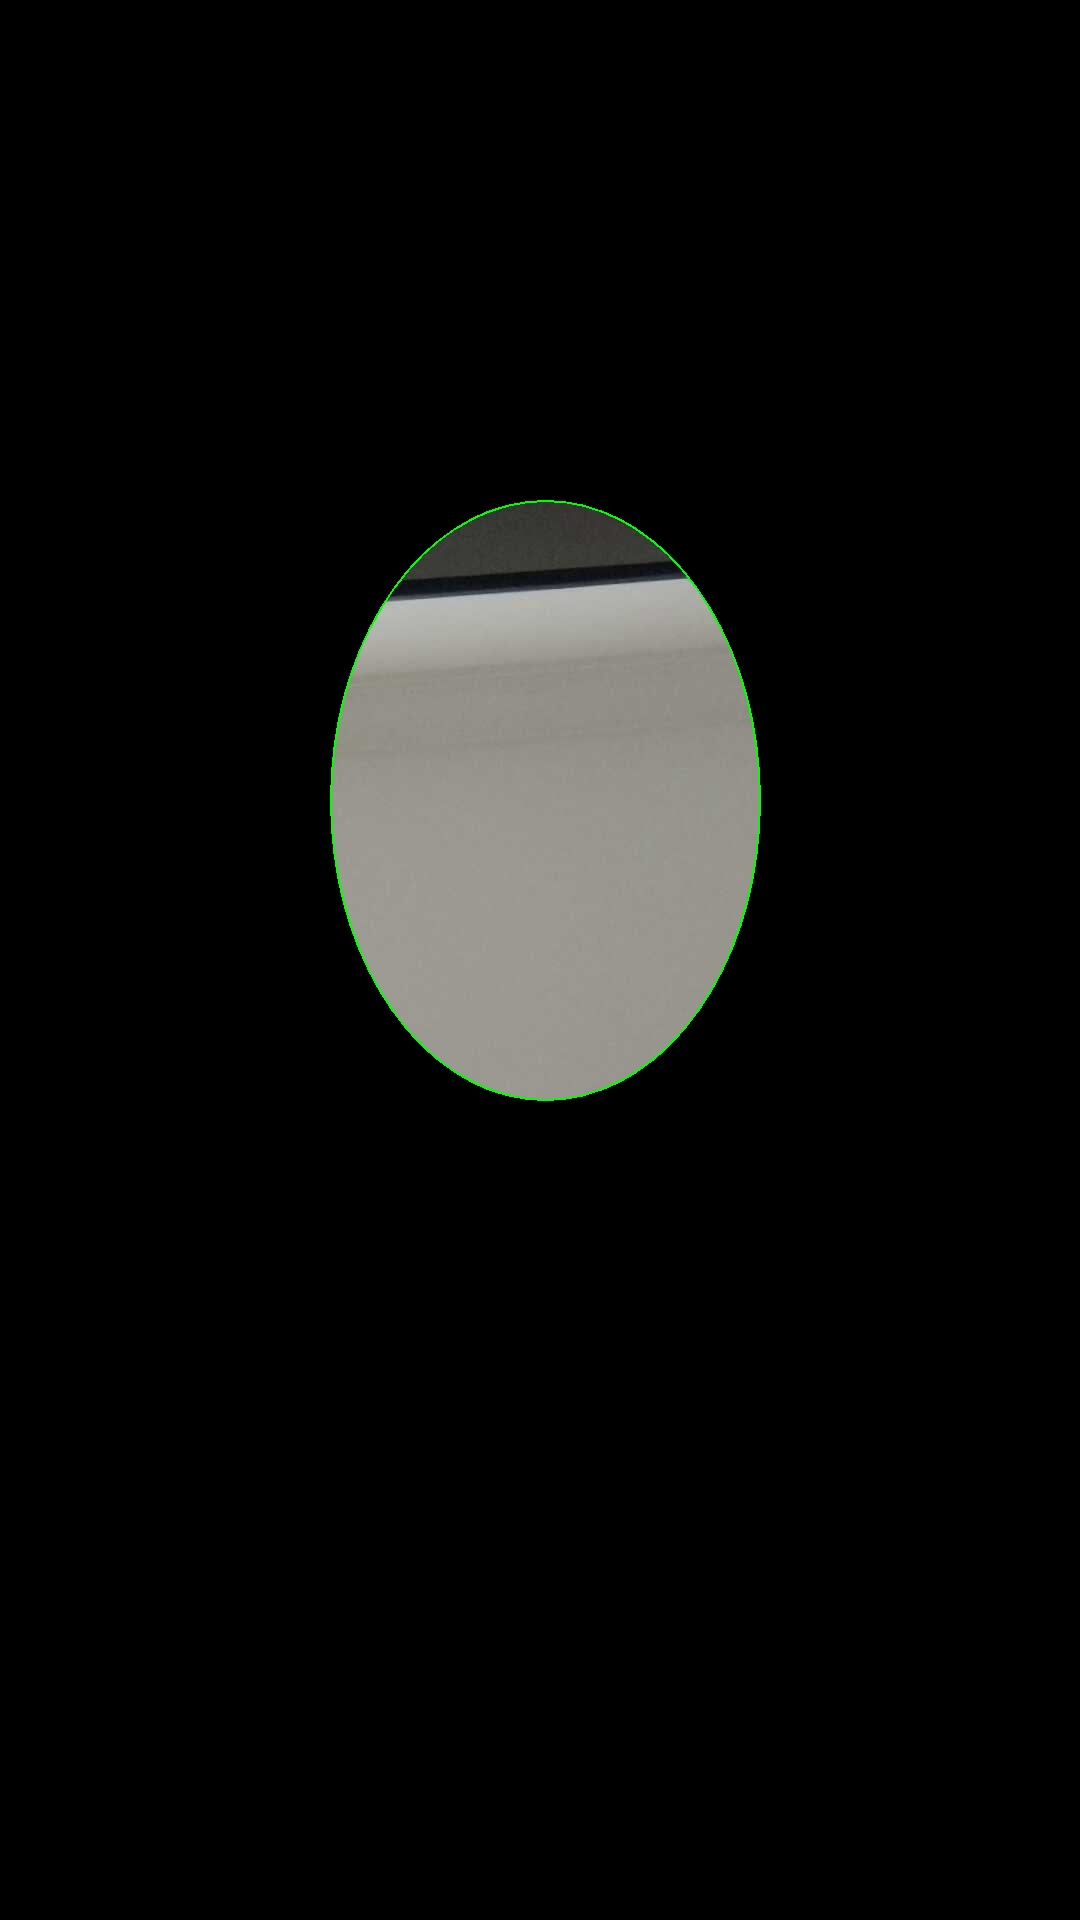
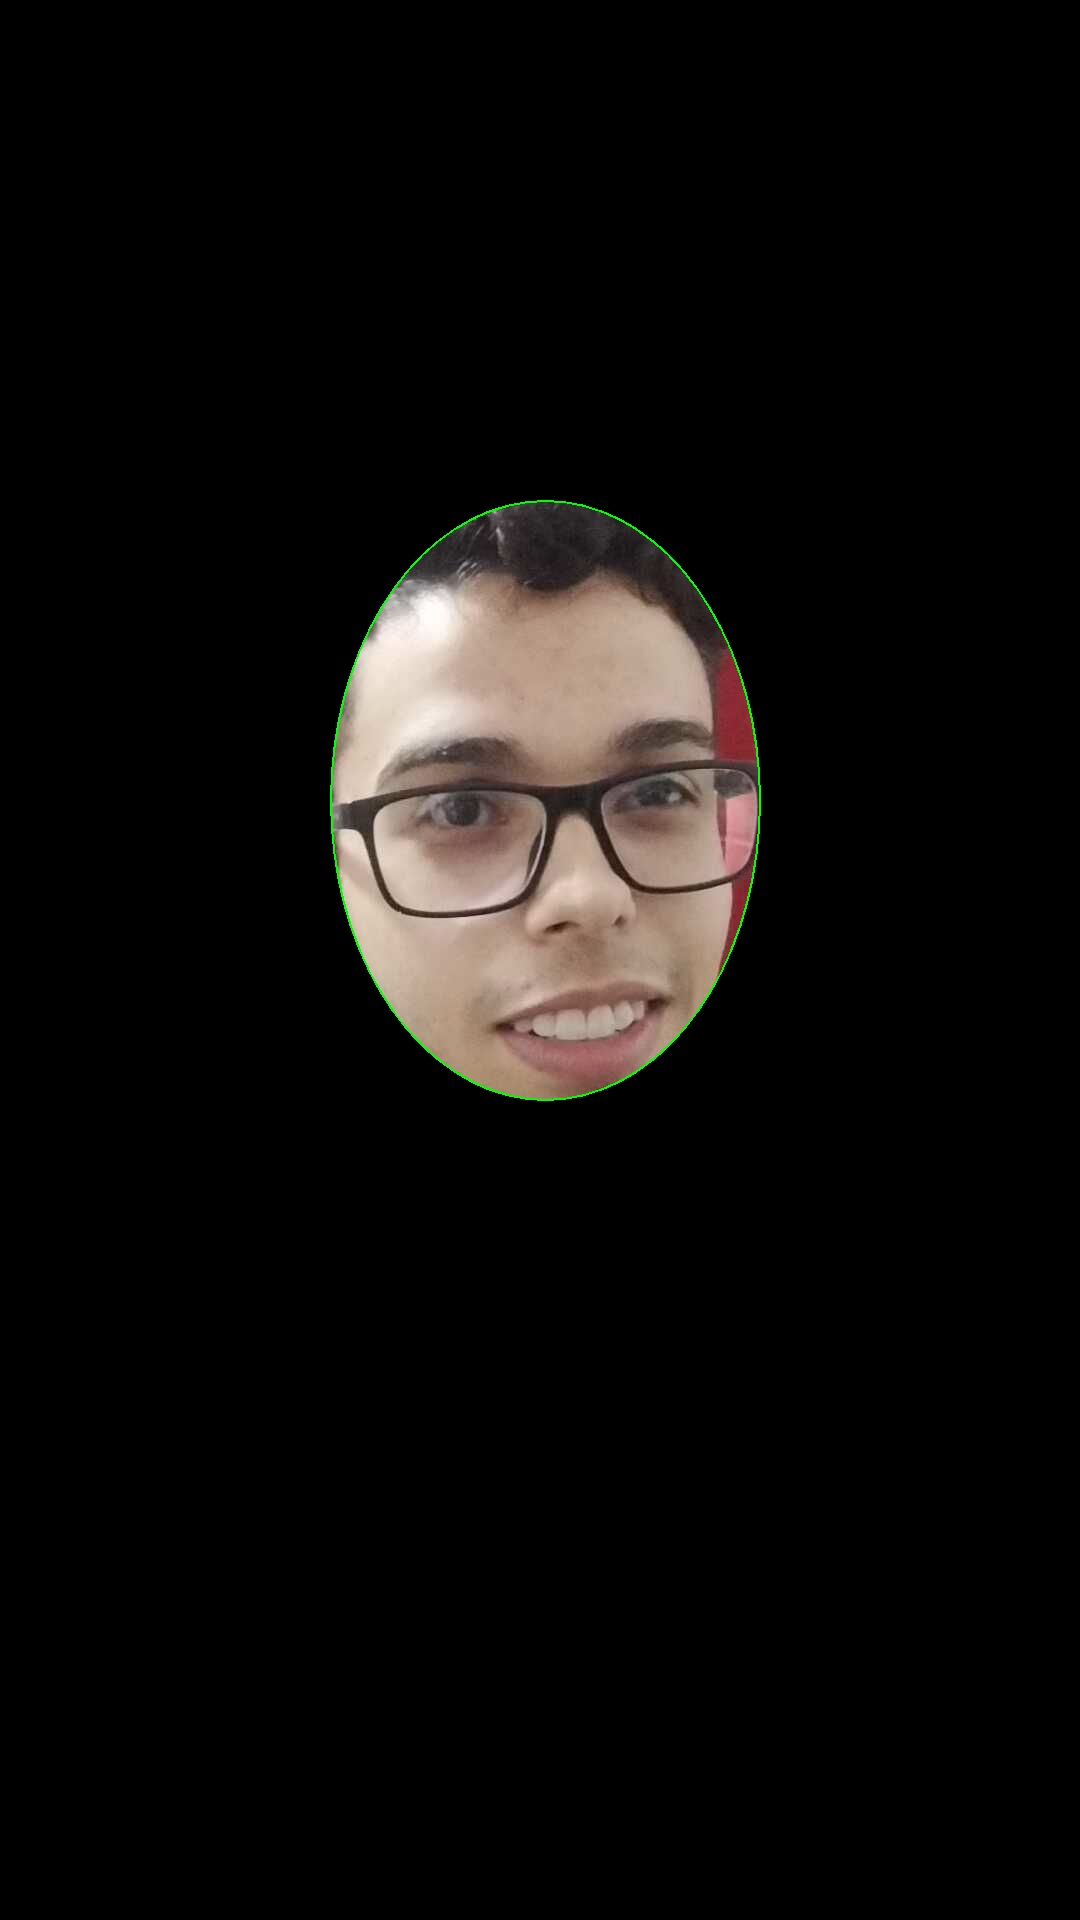
added new frame

Changed region(s): [[0.3056, 0.25, 0.7028, 0.5938]]

diff --git a/main.py b/main.py
@@ -11,6 +11,7 @@ customtkinter.set_default_color_theme("green")  # Themes: blue (default), dark-b
 
 app = customtkinter.CTk()  #creating cutstom tkinter window
 app.geometry("1920x1080+0+0")
+# app.attributes('-fullscreen', True)
 app.title('Login')
 
 
@@ -20,7 +21,7 @@ class Inicial(customtkinter.CTk):
 
         self.title("MelasmIA")
         self.geometry("1920x1080+0+0")
-
+        # self.attributes('-fullscreen', True)
         # set grid layout 1x2
         self.grid_rowconfigure(0, weight=1)
         self.grid_columnconfigure(1, weight=1)
@@ -36,7 +37,7 @@ class Inicial(customtkinter.CTk):
                                                  dark_image=Image.open(os.path.join(image_path, "chat_light.png")), size=(20, 20))
         self.add_user_image = customtkinter.CTkImage(light_image=Image.open(os.path.join(image_path, "add_user_dark.png")),
                                                      dark_image=Image.open(os.path.join(image_path, "add_user_light.png")), size=(20, 20))
-        self.resultImg = customtkinter.CTkImage(Image.open("test_images/prediction.jpg"), size=(300, 300))
+        self.resultImg = customtkinter.CTkImage(Image.open("test_images/melas.jpg"), size=(300, 300))
         self.produto = customtkinter.CTkImage(Image.open(os.path.join(image_path, "produto.png")), size=(150, 150))
 
 
@@ -56,15 +57,15 @@ class Inicial(customtkinter.CTk):
 
         self.frame_2_button = customtkinter.CTkButton(self.navigation_frame, corner_radius=0, height=40, border_spacing=10, text="My Results",
                                                       fg_color="transparent", text_color=("gray10", "gray90"), hover_color=("gray70", "gray30"),
-                                                      image=self.chat_image, anchor="w", command=self.frame_2_button_event)
+                                                      image=self.chat_image, anchor="w", command=lambda: self.frame_2_button_event("frame_2"))
         self.frame_2_button.grid(row=3, column=0, sticky="ew")
 
         self.frame_3_button = customtkinter.CTkButton(self.navigation_frame, corner_radius=0, height=40, border_spacing=10, text="New Detection",
                                                       fg_color="transparent", text_color=("gray10", "gray90"), hover_color=("gray70", "gray30"),
-                                                      image=self.add_user_image, anchor="w", command=self.frame_3_button_event)
+                                                      image=self.add_user_image, anchor="w", command= self.frame_3_button_event)
         self.frame_3_button.grid(row=2, column=0, sticky="ew")
 
-        self.appearance_mode_menu = customtkinter.CTkOptionMenu(self.navigation_frame, values=["Light", "Dark", "System"],
+        self.appearance_mode_menu = customtkinter.CTkOptionMenu(self.navigation_frame, values=["Dark", "Light", "System"],
                                                                 command=self.change_appearance_mode_event)
         self.appearance_mode_menu.grid(row=6, column=0, padx=20, pady=20, sticky="s")
 
@@ -173,7 +174,8 @@ class Inicial(customtkinter.CTk):
         
         self.third_frame_1 = customtkinter.CTkButton(self.third_frame, text="Abrir Camera", width=200, height=70, font = my_font_text, command=lambda: self.select_frame_by_name('frame_4'))
         self.third_frame_1.place(x=900, y=120)
-        # self.toplevel_window = None
+        
+
 
         # create fourth frame
         self.fourth_frame = customtkinter.CTkFrame(self, corner_radius=0, fg_color="transparent")
@@ -185,6 +187,73 @@ class Inicial(customtkinter.CTk):
         self.label_img.grid(row=2, column=0, padx=20, pady=10)
         self.button_1 = customtkinter.CTkButton(self.fourth_frame, text="Capturar imagem", width=280, command=self.capturarImagem)
         self.button_1.grid(row=3, column=0, padx=20, pady=10)
+
+
+        # create fifth frame
+        self.fifth_frame = customtkinter.CTkFrame(self, corner_radius=0, fg_color="transparent")
+        self.fifth_frame.grid_columnconfigure(0, weight=1)
+        self.fifth_label = customtkinter.CTkLabel(self.fifth_frame, text="Meu Resultados", font=("Arial",32))
+        self.fifth_label.grid(row=0, column=0, padx=20, pady=10)
+        self.fifth_large_image_label = customtkinter.CTkLabel(self.fifth_frame,text="", image=self.resultImg)
+        self.fifth_large_image_label.grid(row=1, column=0, padx=20, pady=10)
+        self.fifth_label_Re = customtkinter.CTkLabel(self.fifth_frame, text="Recomendações", font=("Arial",32))
+        self.fifth_label_Re.grid(row=2, column=0, padx=20, pady=10)
+        self.fifth_image_label1 = customtkinter.CTkLabel(self.fifth_frame, text="", image=self.produto)
+        self.fifth_image_label1.place(x=150, y=500)
+        self.fifth_label_description = customtkinter.CTkLabel(self.fifth_frame, text="Recomendações de Tratamento dhududs \n" *5, font=("Arial",15))
+        self.fifth_label_description.place(x=330, y=500)
+        self.fifth_frame_button_1 = customtkinter.CTkButton(self.fifth_frame, text="Clique Aqui!", width=280)
+        self.fifth_frame_button_1.place(x=330, y=600)
+        self.fifth_image_label2 = customtkinter.CTkLabel(self.fifth_frame, text="", image=self.produto)
+        self.fifth_image_label2.place(x=650, y=500)
+        self.fifth_label_description2 = customtkinter.CTkLabel(self.fifth_frame, text="Recomendações de Tratamento dhududs \n" *5, font=("Arial",15))
+        self.fifth_label_description2.place(x=830, y=500)
+        self.fifth_frame_button_2 = customtkinter.CTkButton(self.fifth_frame, text="Clique Aqui!", width=280)
+        self.fifth_frame_button_2.place(x=830, y=600)
+        self.fifth_image_label3= customtkinter.CTkLabel(self.fifth_frame, text="", image=self.produto)
+        self.fifth_image_label3.place(x=1150, y=500)
+        self.fifth_label_description3 = customtkinter.CTkLabel(self.fifth_frame, text="Recomendações de Tratamento dhududs \n" *5, font=("Arial",15))
+        self.fifth_label_description3.place(x=1330, y=500)
+        self.fifth_frame_button_3 = customtkinter.CTkButton(self.fifth_frame, text="Clique Aqui!", width=280)
+        self.fifth_frame_button_3.place(x=1330, y=600)
+
+        self.fifth_image_label4 = customtkinter.CTkLabel(self.fifth_frame, text="", image=self.produto)
+        self.fifth_image_label4.place(x=150, y=750)
+        self.fifth_label_description4 = customtkinter.CTkLabel(self.fifth_frame, text="Recomendações de Tratamento dhududs \n" *5, font=("Arial",15))
+        self.fifth_label_description4.place(x=330, y=750)
+        self.fifth_frame_button_4 = customtkinter.CTkButton(self.fifth_frame, text="Clique Aqui!", width=280)
+        self.fifth_frame_button_4.place(x=330, y=850)
+        self.fifth_image_label5 = customtkinter.CTkLabel(self.fifth_frame, text="", image=self.produto)
+        self.fifth_image_label5.place(x=650, y=750)
+        self.fifth_label_description5 = customtkinter.CTkLabel(self.fifth_frame, text="Recomendações de Tratamento dhududs \n" *5, font=("Arial",15))
+        self.fifth_label_description5.place(x=830, y=750)
+        self.fifth_frame_button_5 = customtkinter.CTkButton(self.fifth_frame, text="Clique Aqui!", width=280)
+        self.fifth_frame_button_5.place(x=830, y=850)
+        self.fifth_image_label6= customtkinter.CTkLabel(self.fifth_frame, text="", image=self.produto)
+        self.fifth_image_label6.place(x=1150, y=750)
+        self.fifth_label_description6 = customtkinter.CTkLabel(self.fifth_frame, text="Recomendações de Tratamento dhududs \n" *5, font=("Arial",15))
+        self.fifth_label_description6.place(x=1330, y=750)
+        self.fifth_frame_button_6 = customtkinter.CTkButton(self.fifth_frame, text="Clique Aqui!", width=280)
+        self.fifth_frame_button_3.place(x=1330, y=600)
+
+        self.fifth_image_label4 = customtkinter.CTkLabel(self.fifth_frame, text="", image=self.produto)
+        self.fifth_image_label4.place(x=150, y=750)
+        self.fifth_label_description4 = customtkinter.CTkLabel(self.fifth_frame, text="Recomendações de Tratamento dhududs \n" *5, font=("Arial",15))
+        self.fifth_label_description4.place(x=330, y=750)
+        self.fifth_frame_button_4 = customtkinter.CTkButton(self.fifth_frame, text="Clique Aqui!", width=280)
+        self.fifth_frame_button_4.place(x=330, y=850)
+        self.fifth_image_label5 = customtkinter.CTkLabel(self.fifth_frame, text="", image=self.produto)
+        self.fifth_image_label5.place(x=650, y=750)
+        self.fifth_label_description5 = customtkinter.CTkLabel(self.fifth_frame, text="Recomendações de Tratamento dhududs \n" *5, font=("Arial",15))
+        self.fifth_label_description5.place(x=830, y=750)
+        self.fifth_frame_button_5 = customtkinter.CTkButton(self.fifth_frame, text="Clique Aqui!", width=280)
+        self.fifth_frame_button_5.place(x=830, y=850)
+        self.fifth_image_label6= customtkinter.CTkLabel(self.fifth_frame, text="", image=self.produto)
+        self.fifth_image_label6.place(x=1150, y=750)
+        self.fifth_label_description6 = customtkinter.CTkLabel(self.fifth_frame, text="Recomendações de Tratamento dhududs \n" *5, font=("Arial",15))
+        self.fifth_label_description6.place(x=1330, y=750)
+        self.fifth_frame_button_6 = customtkinter.CTkButton(self.fifth_frame, text="Clique Aqui!", width=280)
+        self.fifth_frame_button_6.place(x=1330, y=850)
 
         # select default frame
         self.select_frame_by_name("home")
@@ -208,13 +277,28 @@ class Inicial(customtkinter.CTk):
 
     def analizar(self, path):
         self.config(cursor="watch")
-        ia.indentificarMelasma(path)
+        predictions = ia.indentificarMelasma(path)
         self.config(cursor="")
-        self.second_large_image_label.destroy()
-        self.resultImg = customtkinter.CTkImage(Image.open("prediction.jpg"), size=(300, 300))
-        self.second_large_image_label = customtkinter.CTkLabel(self.second_frame,text="", image=self.resultImg)
-        self.second_large_image_label.grid(row=1, column=0, padx=20, pady=10)
-        self.select_frame_by_name("frame_2")
+        if not predictions:
+            self.fifth_large_image_label.destroy()
+            self.resultImg = customtkinter.CTkImage(Image.open("prediction.jpg"), size=(300, 300))
+            self.fifth_large_image_label = customtkinter.CTkLabel(self.fifth_frame,text="", image=self.resultImg)
+            self.fifth_large_image_label.grid(row=1, column=0, padx=20, pady=10)
+            self.select_frame_by_name("frame_5")
+            self.frame_2_button = customtkinter.CTkButton(self.navigation_frame, corner_radius=0, height=40, border_spacing=10, text="My Results",
+                                                      fg_color="transparent", text_color=("gray10", "gray90"), hover_color=("gray70", "gray30"),
+                                                      image=self.chat_image, anchor="w", command=lambda: self.frame_2_button_event("frame_5"))
+            self.frame_2_button.grid(row=3, column=0, sticky="ew")
+        else:
+            self.second_large_image_label.destroy()
+            self.resultImg = customtkinter.CTkImage(Image.open("prediction.jpg"), size=(300, 300))
+            self.second_large_image_label = customtkinter.CTkLabel(self.second_frame,text="", image=self.resultImg)
+            self.second_large_image_label.grid(row=1, column=0, padx=20, pady=10)
+            self.select_frame_by_name("frame_2")
+            self.frame_2_button = customtkinter.CTkButton(self.navigation_frame, corner_radius=0, height=40, border_spacing=10, text="My Results",
+                                                      fg_color="transparent", text_color=("gray10", "gray90"), hover_color=("gray70", "gray30"),
+                                                      image=self.chat_image, anchor="w", command=lambda: self.frame_2_button_event("frame_2"))
+            self.frame_2_button.grid(row=3, column=0, sticky="ew")
 
     def capturarImagem(self):
         ia.abrirCamera()
@@ -222,7 +306,7 @@ class Inicial(customtkinter.CTk):
         self.img = customtkinter.CTkImage(Image.open("recorte.jpg"), size=(300,400))
         self.img_1 = customtkinter.CTkLabel(self.third_frame, text="", image=self.img)
         self.img_1.place(x=700, y=300)
-        self.button = customtkinter.CTkButton(self.third_frame,text="Analizar Imagem", width=200, height=70, font = ("Arial",12), command=self.analizar)
+        self.button = customtkinter.CTkButton(self.third_frame,text="Analizar Imagem", width=200, height=70, font = ("Arial",12), command=lambda: self.analizar("recorte.jpg"))
         self.button.place(x=750, y=750)
 
     def select_frame_by_name(self, name):
@@ -248,12 +332,17 @@ class Inicial(customtkinter.CTk):
             self.fourth_frame.grid(row=0, column=1, sticky="nsew")
         else:
             self.fourth_frame.grid_forget() 
+        if name == "frame_5":
+            self.fifth_frame.grid(row=0, column=1, sticky="nsew")
+        else:
+            self.fifth_frame.grid_forget() 
+
 
     def home_button_event(self):
         self.select_frame_by_name("home")
 
-    def frame_2_button_event(self):
-        self.select_frame_by_name("frame_2")
+    def frame_2_button_event(self, version):
+        self.select_frame_by_name(version)
 
     def frame_3_button_event(self):
         self.select_frame_by_name("frame_3")

diff --git a/ia.py b/ia.py
@@ -54,21 +54,21 @@ def abrirCamera():
 def indentificarMelasma(path):
     if path:
         img = path
-    else:
-        img = "recorte.png"
         
     rf = Roboflow(api_key="cJKIb3GNxOiAlmcdZzJv")
     project = rf.workspace().project("melasma_detection")
     model = project.version(1).model
 
     # visualize your prediction
-    model.predict(img, confidence=40, overlap=30).save("prediction.jpg")
+    model.predict(img, confidence=50, overlap=30).save("prediction.jpg")
 
     # infer on a local image
-    predictions = model.predict(img, confidence=40, overlap=30).json()
-    predictions = predictions['predictions'][0]['confidence']
-    print("Gerando o resultado da nossa inteligência artificial...")
-    print(""+str(round(predictions * 100,1))+'%')
+    predictions = model.predict(img, confidence=50, overlap=30).json()
+    return predictions['predictions']
+    # if predictions:
+    #     predictions = predictions['predictions'][0]['confidence']
+    #     print("Gerando o resultado da nossa inteligência artificial...")
+    #     print(""+str(round(predictions * 100,1))+'%')
 
 
 
